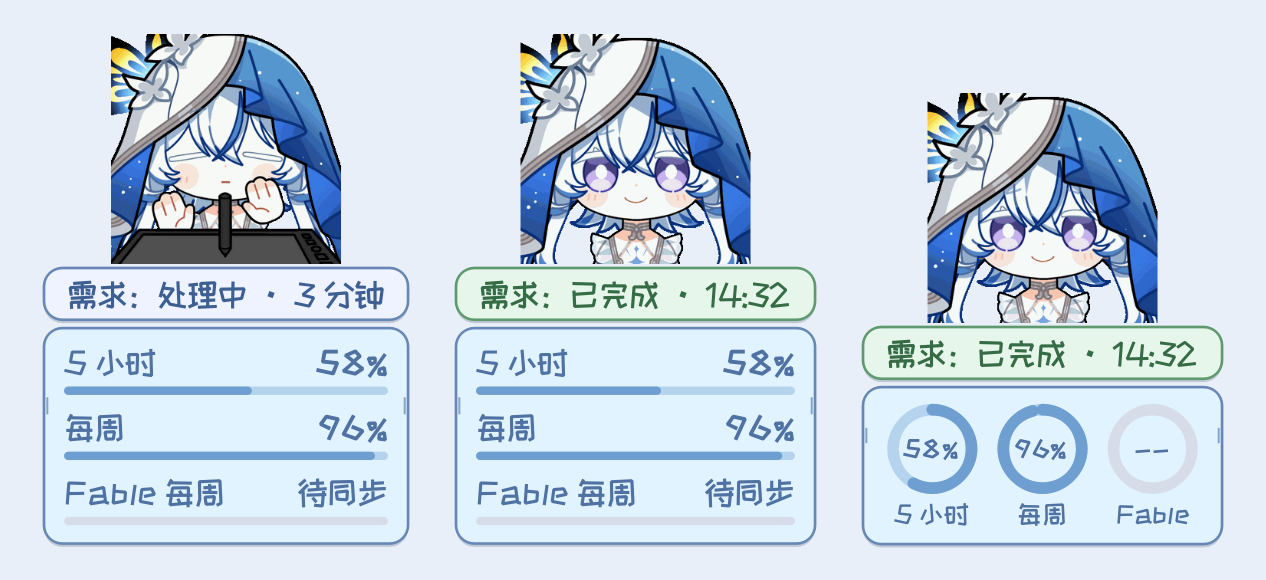
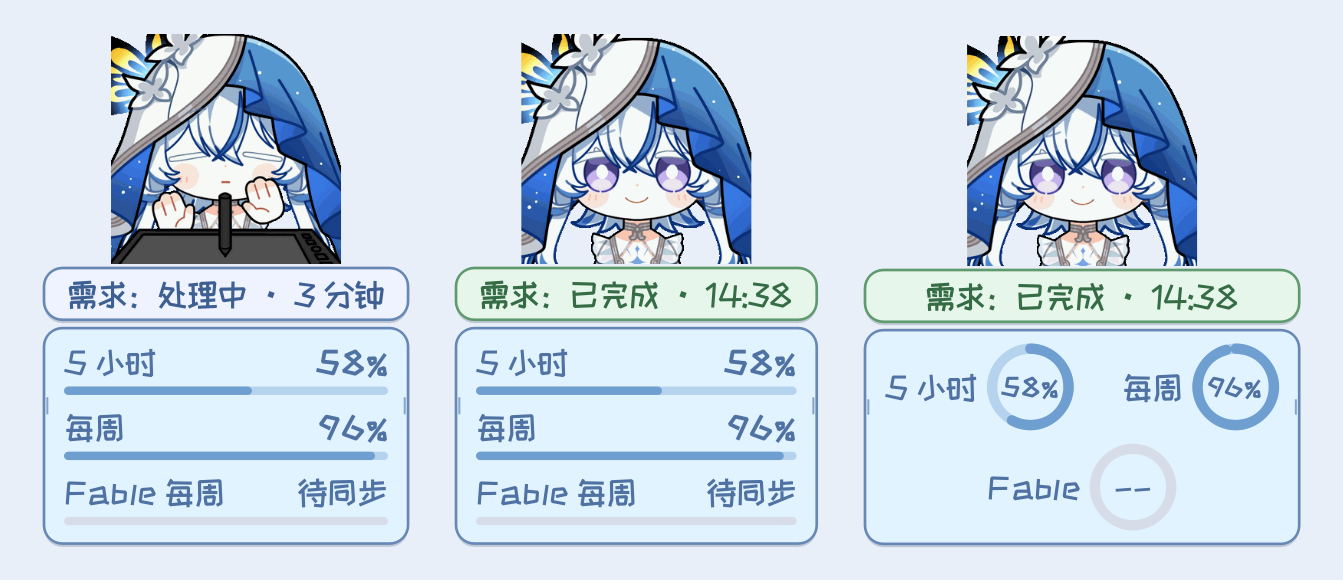
Put ring labels beside the rings and let rings fill the quota box
Rings now grow into the width the request pill gives the box instead of leaving empty space; a single row spreads its groups evenly, three or more items fall back to an aligned two-column grid.

diff --git a/shorekeeper_pet/status_panel.py b/shorekeeper_pet/status_panel.py
@@ -8,11 +8,13 @@ from PySide6.QtGui import QColor,QPen,QFont,QFontMetrics,QPainter
 from PySide6.QtWidgets import QWidget
 from .appearance import font
 
-STYLES=(('bars','条形：每项下方一条余量条'),('rings','圆环：环中显示剩余百分比'))
+STYLES=(('bars','条形：每项下方一条余量条'),('rings','圆环：标签在左，环中显示剩余百分比'))
 CALM=dict(line='#6788b4',fill='#e1f3ff',ink='#4f72a2',track='#b6d3ed',bar='#6e9fd0')
 LOW=dict(ink='#744d13',track='#f0d9b5',bar='#d99032')
 MISSING='#d6dde8'
 GAP=5
+# Ring layout: label to the left of each ring, rings sized to fill the box.
+PAD,PAD_V,COL_GAP,ROW_GAP,RING_GAP,ONE_ROW=12,8,10,8,6,270
 
 def request_palette(text):
     if '出错' in text: return dict(line='#a67125',fill='#fff4de',ink='#744d13')
@@ -33,27 +35,37 @@ class StatusPanel:
     def __init__(self,options,request=None,items=()):
         self.style=options.get('quota_style','bars'); self.request=request; self.items=list(items)
         self.font=font(options['font_family'],options['quota_font_size'])
-        self.small=font(options['font_family'],max(10,round(options['quota_font_size']*.78)))
         fm=QFontMetrics(self.font); self.line=fm.height()
         self.pill_height=max(31,self.line+10) if request else 0
-        self.width,self.box_height=self.measure_box()
-        if request: self.width=max(self.width,min(260,fm.horizontalAdvance(request)+28))
+        # The pill may make the panel wider; the quota box must use that room.
+        floor=min(260,fm.horizontalAdvance(request)+28) if request else 0
+        self.width,self.box_height=self.measure_box(floor)
+        self.width=max(self.width,floor)
         self.height=self.pill_height+(GAP if request and self.items else 0)+self.box_height
 
     def empty(self): return not self.request and not self.items
 
-    def ring_size(self): return round(max(44,self.line*2.7))
-
-    def measure_box(self):
+    def measure_box(self,floor=0):
         if not self.items: return (146 if self.request else 0),0
         fm=QFontMetrics(self.font)
-        if self.style=='rings':
-            small=QFontMetrics(self.small); size=self.ring_size()
-            self.cells=[max(size,small.horizontalAdvance(item['short']))+12 for item in self.items]
-            return max(146,sum(self.cells)+12),10+size+5+small.height()+9
+        if self.style=='rings': return self.measure_rings(floor)
         need=max(fm.horizontalAdvance(item['label'])+fm.horizontalAdvance(value_text(item)) for item in self.items)+46
         self.row_height=self.line+13
         return min(260,max(160,need)),10+len(self.items)*self.row_height+(len(self.items)-1)*6+8
+
+    def measure_rings(self,floor):
+        """One row when it fits, else two columns; rings grow into any spare
+        width (up to a limit) instead of leaving it empty."""
+        fm=QFontMetrics(self.font); count=len(self.items)
+        self.label_width=max(fm.horizontalAdvance(item['short']) for item in self.items)
+        smallest,largest=round(max(46,self.line*2.6)),round(max(60,self.line*3.6))
+        def span(columns): return PAD*2+columns*(self.label_width+RING_GAP+smallest)+(columns-1)*COL_GAP
+        self.columns=count if span(count)<=ONE_ROW else min(2,count)
+        rows=-(-count//self.columns)
+        width=max(floor,146,span(self.columns))
+        self.column=(width-PAD*2-(self.columns-1)*COL_GAP)/self.columns
+        self.ring=max(smallest,min(largest,self.column-self.label_width-RING_GAP))
+        return width,PAD_V*2+rows*self.ring+(rows-1)*ROW_GAP
 
     def paint(self,p):
         y=0
@@ -90,12 +102,32 @@ class StatusPanel:
                 p.setBrush(QColor(colors['bar'])); p.drawRoundedRect(QRectF(track.left(),track.top(),track.width()*max(0,min(100,item['remaining']))/100,track.height()),2.5,2.5)
             top+=self.row_height+6
 
+    def ring_slots(self,box):
+        """(left, top, label width) per item. A single row spreads its groups
+        evenly; a grid keeps columns aligned and centres a short last row."""
+        fm=QFontMetrics(self.font); count=len(self.items)
+        if self.columns==count:
+            widths=[fm.horizontalAdvance(item['short']) for item in self.items]
+            spare=(box.width()-sum(w+RING_GAP+self.ring for w in widths))/(count+1)
+            left=box.left()+spare; slots=[]
+            for width in widths:
+                slots.append((left,box.top()+PAD_V,width)); left+=width+RING_GAP+self.ring+spare
+            return slots
+        group=self.label_width+RING_GAP+self.ring; slots=[]
+        for index in range(count):
+            row,column=divmod(index,self.columns)
+            in_row=min(self.columns,count-row*self.columns)
+            left=box.left()+PAD+(self.columns-in_row)*(self.column+COL_GAP)/2+column*(self.column+COL_GAP)+(self.column-group)/2
+            slots.append((left,box.top()+PAD_V+row*(self.ring+ROW_GAP),self.label_width))
+        return slots
+
     def paint_rings(self,p,box):
-        size=self.ring_size(); stroke=max(5,size*.13); small=QFontMetrics(self.small)
-        left=box.left()+(box.width()-sum(self.cells))/2
-        for item,cell in zip(self.items,self.cells):
-            colors=self.palette(item); center=left+cell/2; left+=cell
-            ring=QRectF(center-size/2+stroke/2,box.top()+10+stroke/2,size-stroke,size-stroke)
+        stroke=max(5,self.ring*.12)
+        for item,(left,top,label_width) in zip(self.items,self.ring_slots(box)):
+            colors=self.palette(item)
+            p.setFont(fitted(self.font,item['short'],label_width)); p.setPen(QColor(colors['ink']))
+            p.drawText(QRectF(left,top,label_width,self.ring),Qt.AlignmentFlag.AlignRight|Qt.AlignmentFlag.AlignVCenter,item['short'])
+            ring=QRectF(left+label_width+RING_GAP+stroke/2,top+stroke/2,self.ring-stroke,self.ring-stroke)
             pen=QPen(QColor(MISSING if item['remaining'] is None else colors['track']),stroke); pen.setCapStyle(Qt.PenCapStyle.RoundCap)
             p.setPen(pen); p.setBrush(Qt.BrushStyle.NoBrush); p.drawEllipse(ring)
             if item['remaining']:
@@ -103,11 +135,10 @@ class StatusPanel:
                 # Clockwise from twelve o'clock; Qt angles are 1/16° counter-clockwise.
                 p.drawArc(ring,90*16,-round(max(0,min(100,item['remaining']))*3.6*16))
             number='--' if item['remaining'] is None else f"{round(item['remaining'])}%"+('*' if item['stale'] else '')
-            inner=size-2*stroke-4; value=QFont(self.font); value.setBold(True); value.setPixelSize(max(8,round(min(self.font.pixelSize(),inner*.42))))
+            inner=self.ring-2*stroke-4; value=QFont(self.font); value.setBold(True)
+            value.setPixelSize(max(8,round(min(self.font.pixelSize()*1.4,inner*.46))))
             p.setFont(fitted(value,number,inner)); p.setPen(QColor(colors['ink']))
             p.drawText(ring,Qt.AlignmentFlag.AlignCenter,number)
-            p.setFont(fitted(self.small,item['short'],cell-4)); p.setPen(QColor(colors['ink']))
-            p.drawText(QRectF(center-cell/2,box.top()+10+size+4,cell,small.height()),Qt.AlignmentFlag.AlignCenter,item['short'])
 
 SAMPLE_REQUEST='需求：已完成 · 14:10'
 SAMPLE_ITEMS=[dict(key='five_hour',label='5 小时',short='5 小时',remaining=58,stale=False),
